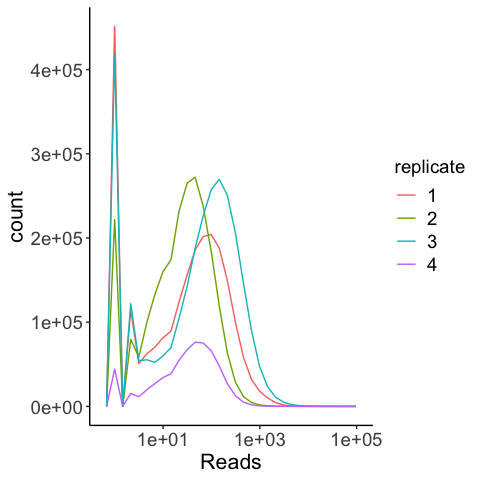
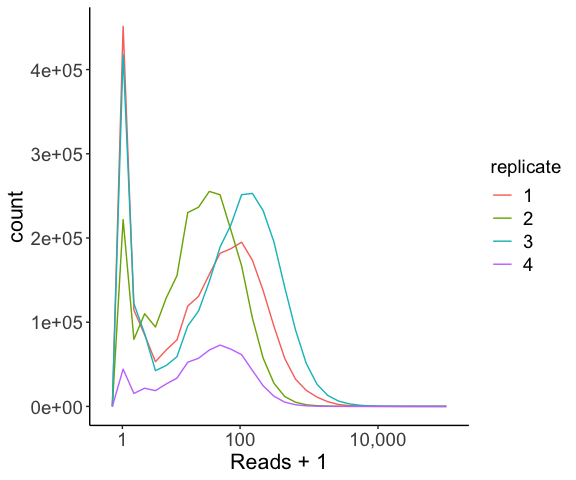
fixed log axis figure scaling, calculated mean correlation between reps

diff --git a/notebooks/data_cleaning.md b/notebooks/data_cleaning.md
@@ -3,34 +3,13 @@ Data cleaning
 Jaeda Patton and Santiago Herrera
 2023-03-14
 
-## Functions
+## Loading data and functions
 
 ``` r
-# make factors with different levels for ordering of REs in plotting
-REs <- list()
-REs[[1]] <- factor(c("SRE1 (AA)", "SRE2 (GA)", "ERE (GT)", "AC", 
-                     "AG", "AT", "CA", "CC", 
-                     "CG", "CT", "GC", "GG", 
-                     "TA", "TC", "TG", "TT"), 
-                   levels=c("ERE (GT)", "SRE1 (AA)", "SRE2 (GA)", "AC", 
-                            "AG", "AT", "CA", "CC", 
-                            "CG", "CT","GC", "GG", 
-                            "TA", "TC", "TG", "TT"))
+# load general functions
+source(file.path("..", "scripts", "general_functions.R"))
 
-# convert REBC (RE barcode) to RE variant
-REBC_to_RE <- function(REBC, levels=1) {
-  if(is.character(REBC)) {
-    bc <- str_extract(REBC, "\\d+")
-    bc <- as.integer(bc)
-  }
-  RE <- REs[[levels]][bc]
-  return(RE)
-}
-```
-
-## Reading in data
-
-``` r
+# read in data from binned sort and debulk sort experiments
 if(!file.exists(file.path("..", "data", "meanF", "meanF_data.rda"))) {
   #### TODO: update file paths once we find a permanent place to store the data
   untar(file.path("..", "data", "meanF", "NovaSeq_DMS_datasets.tar.gz"), 
@@ -64,8 +43,9 @@ if(!file.exists(file.path("..", "data", "meanF", "meanF_data.rda"))) {
   }
   
   # unlist meanF data and calculate current SE(meanF) per variant and REBC
-  meanF_data <- rbind(meanF_data$rep1, meanF_data$rep2, meanF_data$rep3, meanF_data$rep4) %>% 
-    select(AA_var,REBC,bg,RE,REP,meanF,Count_total,cellCount_total,cellCount_b1,cellCount_b2,cellCount_b3,cellCount_b4) %>% 
+  meanF_data <- rbind(meanF_data$rep1, meanF_data$rep2, 
+                      meanF_data$rep3, meanF_data$rep4) %>% 
+    select(AA_var, REBC, bg, RE, REP, meanF, Count_total, cellCount_total,cellCount_b1,cellCount_b2,cellCount_b3,cellCount_b4) %>% 
     # Re-organize the dataframe: each row is a variant-REBC combo
     pivot_wider(names_from = REP, values_from = c(meanF,Count_total,cellCount_total,cellCount_b1,cellCount_b2,cellCount_b3,cellCount_b4)) %>%
     # Add summary statistics per varianr-REBC
@@ -107,14 +87,15 @@ meanF_data %>%
   ggplot(aes(x = Count_total, color = REP)) +
   geom_freqpoly() +
   theme_classic() +
-  scale_x_log10() +
+  scale_x_continuous(trans = log10plus1, name = "Reads + 1",
+                     labels = label_comma()) +
   theme(axis.title.x = element_text(size = 16), 
         axis.text.x = element_text(size = 14),
         axis.text.y = element_text(size = 14),
         axis.title=element_text(size = 16),
         legend.title = element_text(size = 14),
         legend.text = element_text(size = 14)) +
-  labs(x = "Reads", color = "replicate")
+  labs(color = "replicate")
 ```
 
 ![](data_cleaning_files/figure-gfm/exploratoryfigs-1.png)<!-- -->
@@ -139,13 +120,14 @@ meanF_data %>% filter(!is.na(se_meanF)) %>% filter(type != "control") %>%
   ggplot(aes(x=min_read_count,y=se_meanF)) +
   stat_summary_bin(fun = "median", fun.min = "min", fun.max = "max") +
   theme_classic() + 
-  scale_x_log10() +
+  scale_x_continuous(trans = log10plus1, name = "Min. reads + 1",
+                     labels = label_comma()) +
   theme(axis.title.x = element_text(size = 16), 
         axis.text.x = element_text(size = 12),
         axis.text.y = element_text(size = 12),
         axis.title=element_text(size = 16)) +
   geom_hline(aes(yintercept = mean(se_meanF)), color="red", linetype="dashed") +
-  xlab("Min. read count") + ylab("SE(meanF)")
+  ylab("SE(meanF)")
 ```
 
 ![](data_cleaning_files/figure-gfm/exploratoryfigs-2.png)<!-- -->
@@ -174,7 +156,7 @@ meanF_data %>% filter(!(n_reps==1)) %>%
 DMS binned sort data is filtered based on two approaches. First, we
 filter out variants with low read count (across replicates) to reduce
 the global standard error; second, we correct use an I-spline to correct
-the nonlnearity between replicates, and remove variants with high
+the nonlinearity between replicates, and remove variants with high
 SE(meanF). These two procedures ensure that we keep variants for which
 we have high confidence in their meanF estimates.
 
@@ -215,9 +197,9 @@ choose_read_count <- function(r) {
 }
 
 # parallel processing:
-cores=detectCores()
+cores <- 4
 if(!file.exists(file.path("..", "results", "cleaned_data", "outliers.rda"))) {
-  cl <- parallel::makeCluster(cores[1]-3,"FORK",outfile="")
+  cl <- parallel::makeCluster(cores,"FORK",outfile="")
   doParallel::registerDoParallel(cl)
   outliers <- foreach(i = seq(1,100,1), .combine = 'rbind') %dopar% choose_read_count(i)
   stopCluster(cl)
@@ -840,11 +822,11 @@ if(!file.exists(file.path("..", "results", "cleaned_data", "meanF_p.rda"))) {
     nstop <- length(fstop)
     
     # parallel computing
-    cl <- parallel::makeCluster(cores-4, "FORK", outfile="")
+    cl <- parallel::makeCluster(cores, "FORK", outfile="")
     doParallel::registerDoParallel(cl)
-    p <- foreach(j = 1:(cores-4), .combine = "c") %dopar% {
+    p <- foreach(j = 1:cores, .combine = "c") %dopar% {
       size <- meanF_p[[i]] %>% filter(stop == F) %>% nrow()
-      chunk <- ceiling(size / (cores - 4))
+      chunk <- ceiling(size / cores)
       
       # compute fraction of nonsense variants whose meanF is above that of the test variant;
       # perform test for all non-nonsense variants
@@ -895,7 +877,7 @@ meanF_cutoffs <- meanF_p %>%
 meanF_p %>%
   ggplot(aes(x = avg_meanF, fill = sig)) +
   geom_histogram(position = "stack", bins = 50) +
-  scale_y_log10() +
+  scale_y_continuous(trans = log10plus1, name = "Count + 1") +
   theme_classic() +
   labs(x = "meanF", fill = "")
 ```
@@ -912,7 +894,7 @@ meanF_p %>%
   geom_histogram(bins = 30, position = "stack", color = "black") +
   facet_grid(rows = vars(bg), cols = vars(rcbin)) +
   scale_fill_manual(values = c("white", "gray30")) +
-  scale_y_log10() +
+  scale_y_continuous(trans = log10plus1, name = "Count + 1") +
   geom_vline(aes(xintercept = minF), color = "red") +
   theme_classic() +
   labs(x = "meanF", fill = "")
@@ -921,12 +903,55 @@ meanF_p %>%
 ![](data_cleaning_files/figure-gfm/meanFtest-2.png)<!-- -->
 
 ``` r
-# Save dataset of corrected mean fluorescence values with p-values.
+# Save dataset of corrected mean fluorescence values with fluorescence p-values
 meanF_data_corrected <- meanF_data_corrected %>%
-  left_join(meanF_p %>% select(AA_var:type, p:sig), by = c("AA_var", "REBC", "bg", "RE", "type"))
+  left_join(meanF_p %>% select(AA_var:type, p:sig), 
+            by = c("AA_var", "REBC", "bg", "RE", "type"))
 write.csv(meanF_data_corrected,
-          file=gzfile(file.path("..", "results", "cleaned_data", "meanF_data_corrected_NovaSeq.csv.gz"))) 
+          file=gzfile(file.path("..", "results", "cleaned_data", 
+                                "meanF_data_corrected_NovaSeq.csv.gz"))) 
 ```
+
+## Correlation between replicates for corrected data
+
+Let’s calculate the mean correlation between all replicates for all
+data, as well as for only those variants that are significantly
+different from null.
+
+``` r
+# Pearson correlation between all replicates
+cormat <- meanF_data_corrected %>%
+  filter(type == "exp") %>%
+  select(meanF_REP1:meanF_REP4) %>%
+  cor(use = "pairwise.complete.obs")
+# mean r^2 between all pairs of replicates
+print(paste("Mean Pearson's r^2 between replicates:", 
+            round(mean(cormat[upper.tri(cormat)]^2), 2)))
+```
+
+    ## [1] "Mean Pearson's r^2 between replicates: 0.29"
+
+``` r
+# mean r^2 between all pairs of replicates, excluding rep 4
+cormat.no4 <- cormat[1:3,1:3]
+print(paste("Mean Pearson's r^2 no rep 4:",
+            round(mean(cormat.no4[upper.tri(cormat.no4)]^2), 2)))
+```
+
+    ## [1] "Mean Pearson's r^2 no rep 4: 0.55"
+
+``` r
+# Pearson correlation between all replicates, active variants only
+cormat.active <- meanF_data_corrected %>%
+  filter(type == "exp", sig == "significant") %>%
+  select(meanF_REP1:meanF_REP4) %>%
+  cor(use = "pairwise.complete.obs")
+# mean r^2 between all pairs of replicates, active variants only
+print(paste("Mean Pearson's r^2 between replicates:", 
+            round(mean(cormat.active[upper.tri(cormat.active)]^2), 2)))
+```
+
+    ## [1] "Mean Pearson's r^2 between replicates: 0.95"
 
 ## Filtering debulk sort data
 
@@ -1069,32 +1094,54 @@ print(cor.test(~ REP4 + REP2,
 ``` r
 # average estimates of GFP+ cells across binned sort replicates, but not for the libraries
 # in rep 1 that were from a different debulk sorting experiment than the other replicates
-estGFPpos <- meanF_data_corrected_long %>%
-  ungroup() %>%
-  filter(REBC %in% c("AncSR1_REBC9", "AncSR1_REBC10", "AncSR1_REBC11", "AncSR1_REBC12",
-                     "AncSR1_REBC13", "AncSR1_REBC14", "AncSR1_REBC15", "AncSR1_REBC16"), REP == "1") %>%
-  select(AA_var:RE, avg_meanF, avg_Count_total, estGFPposcells) %>%
-  mutate(BinBC = "GFPneg")
-estGFPpos <- rbind(estGFPpos, meanF_data_corrected_long %>%
-                     filter(REBC %in% c("AncSR1_REBC9", "AncSR1_REBC10", "AncSR1_REBC11", "AncSR1_REBC12",
-                                        "AncSR1_REBC13", "AncSR1_REBC14", "AncSR1_REBC15", "AncSR1_REBC16"), 
-                            REP != "1") %>%
-                     group_by(AA_var, REBC, bg, RE) %>%
-                     summarize(avg_meanF = mean(avg_meanF), 
-                               avg_Count_total = mean(avg_Count_total), 
-                               estGFPposcells = mean(estGFPposcells)) %>%
-                     mutate(BinBC = "GFPneg2"))
-estGFPpos <- rbind(estGFPpos, meanF_data_corrected_long %>%
-                     filter(!REBC %in% c("AncSR1_REBC9", "AncSR1_REBC10", "AncSR1_REBC11", "AncSR1_REBC12",
-                                         "AncSR1_REBC13", "AncSR1_REBC14", "AncSR1_REBC15", "AncSR1_REBC16")) %>%
-                     group_by(AA_var, REBC, bg, RE) %>%
-                     summarize(avg_meanF = mean(avg_meanF), 
-                               avg_Count_total = mean(avg_Count_total), 
-                               estGFPposcells = mean(estGFPposcells)) %>%
-                     mutate(BinBC = "GFPneg"))
+if(!file.exists(file.path("..", "results", "cleaned_data", "estGFPpos.rda"))) {
+  estGFPpos <- meanF_data_corrected_long %>%
+    ungroup() %>%
+    filter(REBC %in% c("AncSR1_REBC9", "AncSR1_REBC10", "AncSR1_REBC11", "AncSR1_REBC12",
+                       "AncSR1_REBC13", "AncSR1_REBC14", "AncSR1_REBC15", "AncSR1_REBC16"), REP == "1") %>%
+    select(AA_var:RE, avg_meanF, avg_Count_total, estGFPposcells) %>%
+    mutate(BinBC = "GFPneg")
+  estGFPpos <- rbind(estGFPpos, meanF_data_corrected_long %>%
+                       filter(REBC %in% c("AncSR1_REBC9", "AncSR1_REBC10", "AncSR1_REBC11", "AncSR1_REBC12",
+                                          "AncSR1_REBC13", "AncSR1_REBC14", "AncSR1_REBC15", "AncSR1_REBC16"), 
+                              REP != "1") %>%
+                       group_by(AA_var, REBC, bg, RE) %>%
+                       summarize(avg_meanF = mean(avg_meanF), 
+                                 avg_Count_total = mean(avg_Count_total), 
+                                 estGFPposcells = mean(estGFPposcells)) %>%
+                       mutate(BinBC = "GFPneg2"))
+  estGFPpos <- rbind(estGFPpos, meanF_data_corrected_long %>%
+                       filter(!REBC %in% c("AncSR1_REBC9", "AncSR1_REBC10", "AncSR1_REBC11", "AncSR1_REBC12",
+                                           "AncSR1_REBC13", "AncSR1_REBC14", "AncSR1_REBC15", "AncSR1_REBC16")) %>%
+                       group_by(AA_var, REBC, bg, RE) %>%
+                       summarize(avg_meanF = mean(avg_meanF), 
+                                 avg_Count_total = mean(avg_Count_total), 
+                                 estGFPposcells = mean(estGFPposcells)) %>%
+                       mutate(BinBC = "GFPneg"))
+  
+  save(estGFPpos, file = file.path("..", "results", "cleaned_data", "estGFPpos.rda"))
+} else load(file.path("..", "results", "cleaned_data", "estGFPpos.rda"))
+
 
 # now for libraries that underwent two different debulk sorts, average GFP+ cell count
 # estimates across the two debulk sorts
+if(!file.exists(file.path("..", "results", "cleaned_data", "estGFPposave.rda"))) {
+  estGFPposave <- estGFPpos %>%
+    group_by(AA_var, REBC, bg, RE, avg_meanF, avg_Count_total) %>%
+    summarize(estGFPposcells = mean(estGFPposcells))
+  
+  estGFPposave <- estGFPposave %>%
+    ungroup() %>%
+    mutate(rcbin = case_when(avg_Count_total < 100 ~ "<100",
+                             avg_Count_total >= 100 & avg_Count_total < 500 ~ "100-500",
+                             avg_Count_total >= 500 & avg_Count_total < 1000 ~ "500-1000",
+                             avg_Count_total >= 1000 ~ ">=1000") %>% 
+             factor(levels = c("<100", "100-500", "500-1000", ">=1000"))) %>%
+    left_join(meanF_cutoffs, by = c("bg", "rcbin"))
+  
+  save(estGFPposave, file = file.path("..", "results", "cleaned_data", "estGFPposave.rda"))
+} else load(file.path("..", "results", "cleaned_data", "estGFPposave.rda"))
+
 estGFPposave <- estGFPpos %>%
   group_by(AA_var, REBC, bg, RE, avg_meanF, avg_Count_total) %>%
   summarize(estGFPposcells = mean(estGFPposcells))
@@ -1290,8 +1337,8 @@ debulk_data %>%
   mutate(sig = padj <= debulk.fdrthresh) %>%
   ggplot(aes(x = Count, fill = sig)) +
   geom_histogram(bins = 100, position = "stack") +
-  scale_x_log10() +
-  labs(x = "reads per variant", title = "Debulk GFP- data") +
+  scale_x_continuous(trans = log10plus1, name = "Reads per variant + 1") +
+  labs(title = "Debulk GFP- data") +
   theme_classic()
 ```
 
